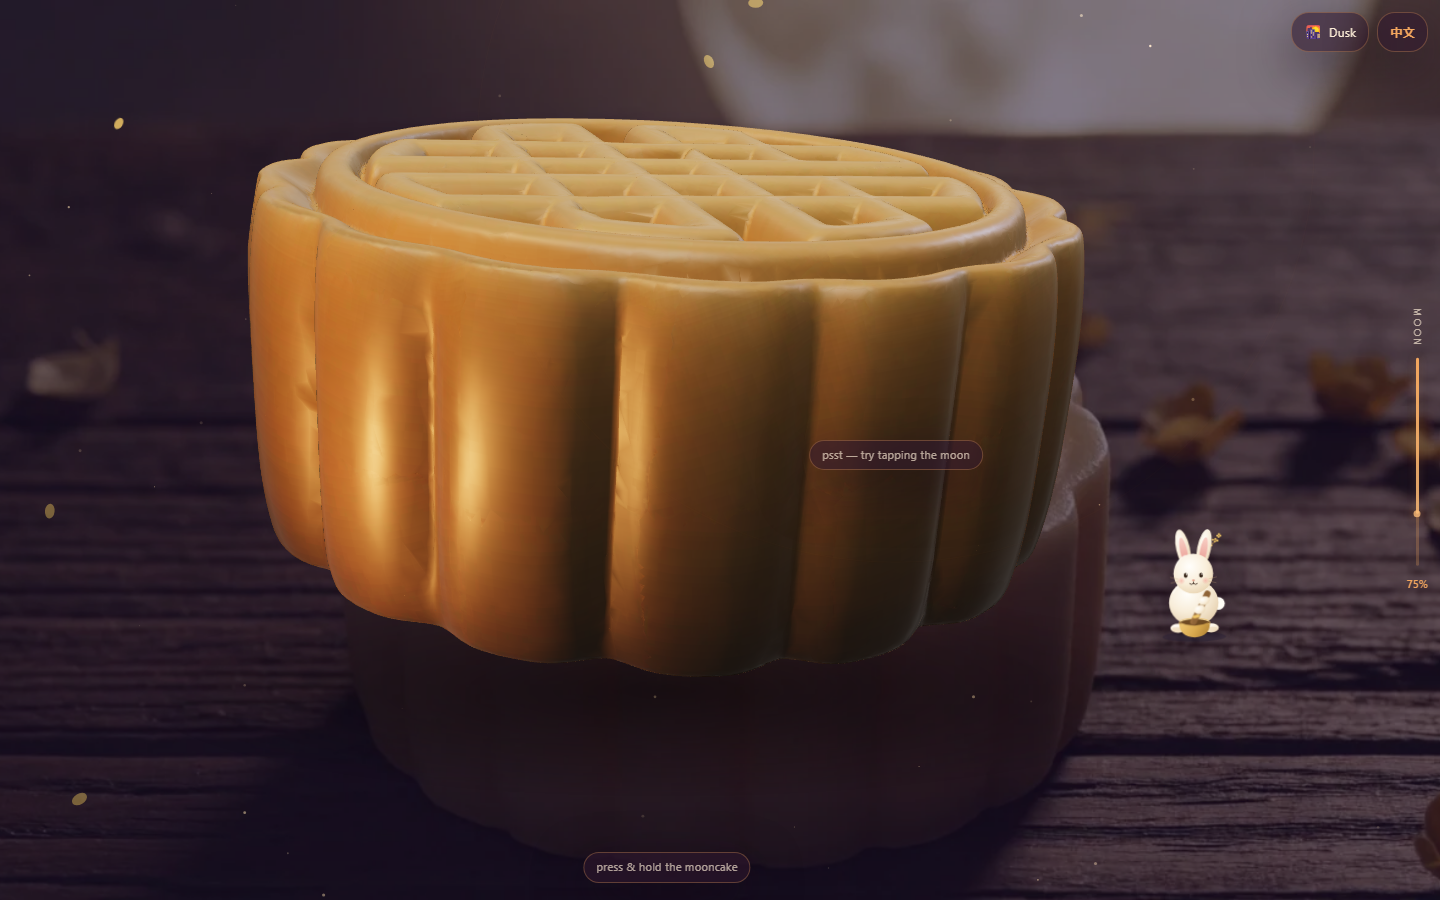
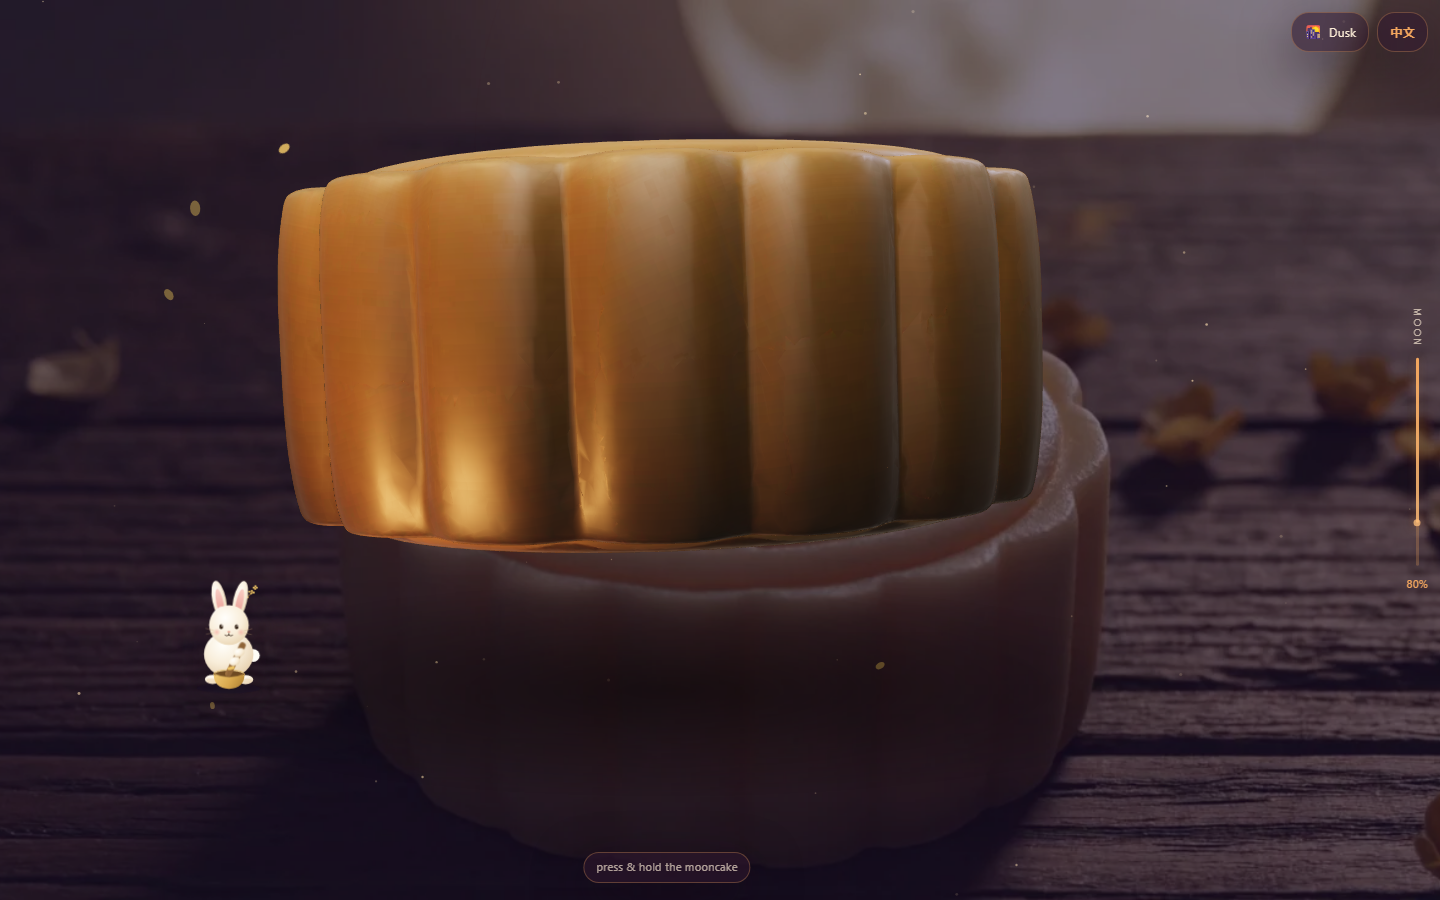
Refactor code structure for improved readability and maintainability

diff --git a/src/components/ScrollStage.jsx b/src/components/ScrollStage.jsx
@@ -13,13 +13,15 @@ import PetalLayer from './PetalLayer.jsx'
 // ---------------------------------------------------------------------------
 // 3 + 4 + 5. THE PINNED STAGE — the whole scroll journey lives here:
 //
-//   0.00–0.55  frame scrub: 121 Variant-B frames drawn 1:1 onto a <canvas>
-//              (drawImage, NOT <video>), tied to scroll via ScrollTrigger
-//   0.42–0.52  the "formation" caption fades through
-//   0.55–0.64  pop-out: 2D canvas crossfades -> Three.js mooncake positioned
-//              exactly where the flat cake sits in the last frame
-//   0.64–1.00  drift: zigzag path + wiggle + auto-rotate, easter eggs arm:
-//              rabbit hops in · moon becomes tappable · long-press overlay
+//   0.00–0.62  frame scrub: 121 Variant-B frames drawn 1:1 onto a <canvas>
+//              (drawImage, NOT <video>), tied to scroll via ScrollTrigger —
+//              stretched across most of the pin so the formation reads slow
+//   0.46–0.60  the "formation" caption fades through
+//   0.62–0.70  pop-out: 2D canvas crossfades -> Three.js mooncake positioned
+//              exactly where the flat cake sits in the last frame — the cake
+//              steps out of the image
+//   0.70–1.00  the cake swells to hero size and settles into its 3/4 pose;
+//              easter eggs arm: rabbit hops in · moon tappable · long-press
 //
 // All scroll-driven mutation happens on ONE plain object (stRef) with
 // transform/opacity writes only — no layout reads/writes per frame.
@@ -48,6 +50,7 @@ export default function ScrollStage({ assets, active }) {
   const stRef = useRef({ frame: 0, fade: 0, dx: 0, dy: 0, rotY: 0, zoom: 0 })
   const lastDrawn = useRef(-1)
   const flags = useRef({ rabbit: false, moonHint: false, pressHint: false, orbitHint: false })
+  const orbitTimer = useRef(0)
   const stageActive = useRef(false)
   const hotspotShown = useRef(false)
   const moonTapped = useRef(false)
@@ -181,7 +184,7 @@ export default function ScrollStage({ assets, active }) {
         // already overflow ~3.8x, so they get no boost).
         scale:
           (0.94 + 0.06 * st.fade) *
-          (1 + st.zoom * (viewSize.current.w > viewSize.current.h ? 0.1 : 0)),
+          (1 + st.zoom * (viewSize.current.w > viewSize.current.h ? 0.14 : 0)),
       })
       sceneRef.current.setActive(stageActive.current && st.fade > 0.01)
     }
@@ -221,6 +224,8 @@ export default function ScrollStage({ assets, active }) {
     // visitor's orbit/pan/zoom also resets so the pop-out stays pixel-exact
     if (st.fade < 0.1) {
       flags.current = { rabbit: false, moonHint: false, pressHint: false, orbitHint: false }
+      window.clearTimeout(orbitTimer.current)
+      orbitTimer.current = 0
       sceneRef.current?.resetView(true)
       for (const r of [moonHintRef, pressHintRef, orbitHintRef]) {
         if (r.current) {
@@ -607,9 +612,9 @@ export default function ScrollStage({ assets, active }) {
       captionRef.current,
       { autoAlpha: 0, y: 12 },
       { autoAlpha: 1, y: 0, duration: 0.05, ease: 'power2.out' },
-      0.42,
+      0.46,
     )
-    tl.to(captionRef.current, { autoAlpha: 0, duration: 0.04 }, 0.5)
+    tl.to(captionRef.current, { autoAlpha: 0, duration: 0.04 }, 0.56)
 
     // 3) pop-out crossfade (2D canvas -> WebGL cake)
     tl.to(st, { fade: 1, duration: TL.popEnd - TL.scrubEnd, onUpdate: apply }, TL.scrubEnd)
@@ -618,7 +623,9 @@ export default function ScrollStage({ assets, active }) {
     // into a 3/4 pose and PARKS — no more zigzag wander. The visitor takes
     // over from here: trackball rotate / move / zoom (armCakeViewer).
     tl.to(st, { zoom: 1, duration: 0.14, ease: 'sine.inOut', onUpdate: apply }, TL.popEnd)
-    tl.to(st, { pitch: 0.3, duration: 0.32, ease: 'sine.inOut', onUpdate: apply }, TL.popEnd + 0.02)
+    // (ends exactly at 1.00 so the timeline's total duration stays 1 and every
+    // TL fraction maps 1:1 onto the pinned scroll distance)
+    tl.to(st, { pitch: 0.3, duration: 0.28, ease: 'sine.inOut', onUpdate: apply }, TL.popEnd + 0.02)
 
     // 5) easter-egg arming (guarded one-shots; re-armed by applyScrollState)
     tl.call(() => {
@@ -639,12 +646,24 @@ export default function ScrollStage({ assets, active }) {
         showMoonHint()
       }
     }, null, TL.popEnd + 0.08)
+    // The orbit hint is a REAL-TIME nudge ("you can play with this"), not a
+    // scroll beat: ~6s after the cake parks. It must NOT live on the scrubbed
+    // timeline as a far-future position — a tl.call placed beyond the end
+    // stretches the timeline's total duration, and ScrollTrigger then maps the
+    // whole pin across that inflated duration (that bug once compressed the
+    // entire 121-frame formation into ~8% of the scroll = "way too fast").
     tl.call(() => {
       if (!flags.current.orbitHint) {
         flags.current.orbitHint = true
-        showOrbitHint()
+        window.clearTimeout(orbitTimer.current)
+        orbitTimer.current = window.setTimeout(() => {
+          orbitTimer.current = 0
+          if (stageActive.current && stRef.current.fade > 0.8 && flags.current.orbitHint) {
+            showOrbitHint()
+          }
+        }, 6100)
       }
-    }, null, TL.popEnd + 6.1)
+    }, null, TL.popEnd + 0.08)
 
     window.addEventListener('resize', onResize, { passive: true })
     return () => {
@@ -653,6 +672,7 @@ export default function ScrollStage({ assets, active }) {
       disposeLongPress()
       disposeViewer()
       disposeMoonTap()
+      window.clearTimeout(orbitTimer.current)
       petalRef.current?.setDrifting(false)
       if (tl) {
         tl.scrollTrigger?.kill()

diff --git a/src/components/Closing.jsx b/src/components/Closing.jsx
@@ -5,10 +5,12 @@ import { usePrefs } from '../state/prefs.jsx'
 import { useReducedMotion } from '../hooks/useReducedMotion.js'
 
 // ---------------------------------------------------------------------------
-// 6. CLOSING — the second Variant-A still (moon glowing) behind a short
-//    bilingual message signed "— Navi", the thousand-year-old Su Shi line as
-//    a soft-glowing caption, and the ambient canvas keeps drifting petals so
-//    the page never feels "finished".
+// 2. FESTIVAL PANEL — sits right after the hero, BEFORE the formation: the
+//    Variant-A cake still (the image the mooncake will later step out of)
+//    behind "Happy Mid-Autumn Festival, Ames", the thousand-year-old Su Shi
+//    line as a soft-glowing caption, and Navi's signed message. The journey
+//    then continues into the pinned stage — formation -> 3D cake — and ends
+//    there, on the cake itself.
 // ---------------------------------------------------------------------------
 export default function Closing() {
   const { t } = usePrefs()
@@ -44,7 +46,7 @@ export default function Closing() {
     <section
       ref={ref}
       className="relative z-10 flex min-h-[108svh] items-center justify-center overflow-hidden"
-      aria-label="a message for you"
+      aria-label="Happy Mid-Autumn Festival"
     >
       {/* closing backdrop (Variant-A still, moon glowing) */}
       <div className="absolute inset-0">
@@ -53,7 +55,7 @@ export default function Closing() {
           alt=""
           draggable="false"
           className="h-full w-full object-cover"
-          style={{ opacity: 0.42 }}
+          style={{ opacity: 0.58 }}
         />
         {/* blend top & bottom into the page sky so the seam is invisible */}
         <div
@@ -66,10 +68,19 @@ export default function Closing() {
       </div>
 
       <div className="relative z-10 mx-6 max-w-xl py-28 text-center">
+        {/* the greeting leads — this panel is the festival moment */}
+        <h2
+          data-close-item
+          className="font-display text-3xl leading-snug md:text-4xl"
+          style={{ color: 'var(--text)' }}
+        >
+          {t('closing.title')}
+        </h2>
+
         {/* Su Shi — the glowing caption */}
         <p
           data-close-item
-          className="font-display text-glow text-xl leading-relaxed md:text-2xl"
+          className="font-display text-glow mt-6 text-xl leading-relaxed md:text-2xl"
           style={{ color: 'var(--accent)' }}
         >
           {t('closing.shi')}
@@ -78,13 +89,6 @@ export default function Closing() {
           {t('closing.shiNote')}
         </p>
 
-        <h2
-          data-close-item
-          className="font-display mt-12 text-3xl leading-snug md:text-4xl"
-          style={{ color: 'var(--text)' }}
-        >
-          {t('closing.title')}
-        </h2>
         <p
           data-close-item
           className="mx-auto mt-6 max-w-md text-base leading-loose"

diff --git a/src/lib/config.js b/src/lib/config.js
@@ -36,17 +36,24 @@ export const CAKE_ANCHOR = { x: 0.47, y: 0.38, size: 0.42 }
 export const MOON_ANCHOR = { x: 0.6, y: 0.16, r: 0.16 }
 
 // Master scroll-timeline breakpoints (fractions of the pinned stage):
-//   0.00 – 0.55  frame-sequence scrub (Variant B formation)
-//   0.55 – 0.64  crossfade 2D canvas -> WebGL mooncake ("pop-out")
-//   0.64 – 1.00  drift + wiggle + easter eggs
+//   0.00 – 0.62  frame-sequence scrub (Variant B formation) — deliberately
+//                wide so the swirl / burst / settle reads slow and cinematic
+//   0.62 – 0.70  crossfade 2D canvas -> WebGL mooncake ("pop-out": the cake
+//                steps out of the last frame)
+//   0.70 – 1.00  swell + settle + easter eggs (the finale; nothing after it)
+// NOTE: these are fractions of the GSAP timeline, whose total duration must
+// stay 1.0 — a tl.call scheduled beyond the end stretches the duration and
+// silently rescales every beat (that's how the formation once became ~8x too
+// fast: the whole scrub was squeezed into ~8% of the pin).
 export const TL = {
-  scrubEnd: 0.55,
-  popEnd: 0.64,
+  scrubEnd: 0.62,
+  popEnd: 0.70,
 }
 
-// Scroll length of the pinned stage, in viewport heights (620% => plenty of
-// room: ~340vh for 121 frames, ~230vh of drift/easter eggs).
-export const PIN_DISTANCE_VH = 620
+// Scroll length of the pinned stage, in viewport heights (800% => ~495vh for
+// the 121 formation frames, ~65vh for the pop-out crossfade, ~240vh of
+// finale/easter eggs).
+export const PIN_DISTANCE_VH = 800
 
 // Loading weight split for the progress percentage.
 export const LOAD_WEIGHTS = { frames: 0.55, model: 0.38, misc: 0.07 }

diff --git a/src/App.jsx b/src/App.jsx
@@ -15,8 +15,9 @@ import Closing from './components/Closing.jsx'
 //   boot      -> preloadAssets (frames + model + locales + poster) with a
 //                single weighted progress number for the loader
 //   loader    -> poster bg + moon-phase progress; scroll LOCKED until done
-//   app       -> hero -> pinned scroll stage -> closing, plus ambient canvas,
-//                corner controls and the moon-phase scroll meter
+//   app       -> hero -> festival panel (cake image + message) -> pinned
+//                scroll stage (formation -> 3D cake finale), plus ambient
+//                canvas, corner controls and the moon-phase scroll meter
 // ---------------------------------------------------------------------------
 export default function App() {
   const [assets, setAssets] = useState(null)
@@ -59,8 +60,8 @@ export default function App() {
         <>
           <UIControls />
           <Hero ready={loaderGone} />
-          <ScrollStage assets={assets} active={loaderGone} />
           <Closing />
+          <ScrollStage assets={assets} active={loaderGone} />
           <ScrollMeter />
         </>
       ) : (

diff --git a/src/lib/preload.js b/src/lib/preload.js
@@ -91,10 +91,13 @@ export function preloadAssets(onProgress) {
   const result = { frames: new Array(FRAMES.count).fill(null), gltf: null, locales: null, webglOK: detectWebGL() }
 
   const work = (async () => {
-    // -- misc: locales (the loader UI itself needs the translated line)
+    // -- misc: locales (the loader UI itself needs the translated line) plus
+    // the festival-panel backdrop — it's the second screen now, so it should
+    // be warm in cache before the loader lets go
     const miscJobs = [
       fetchJSON(PATHS.locales.en),
       fetchJSON(PATHS.locales.zh),
+      loadImage(PATHS.closingBg),
     ]
     let miscDone = 0
     const locales = await Promise.all(

diff --git a/README.md b/README.md
@@ -13,14 +13,20 @@ Festival gift from **Navi** to **Ames**.
    arrive unevenly. Scroll is locked until everything is ready.
 2. **Hero** — bilingual greeting addressed to Ames, glowing moon, swaying
    paper lantern, twinkling stars, "scroll to begin".
-3. **The formation (pinned scroll scrub)** — 121 video frames drawn 1:1 onto
+3. **Festival panel** — "Happy Mid-Autumn Festival, Ames" with the Variant-A
+   cake still glowing behind it (the image the mooncake will later step out
+   of), the thousand-year-old Su Shi line 但愿人长久，千里共婵娟, and Navi's
+   signed message.
+4. **The formation (pinned scroll scrub)** — 121 video frames drawn 1:1 onto
    a `<canvas>` tied to scroll: particles swirl, petals ring, the cake
-   condenses out of light and settles. Scroll back up = it dissolves again.
-4. **Pop-out** — the 2D canvas crossfades into the real 3D mooncake
-   (Three.js), positioned exactly where the flat cake sat in the last frame.
-5. **Hands-on 3D viewer + easter eggs** — the cake swells to hero size,
-   settles into a 3/4 pose, and parks (no auto-wander). From here it's a
-   product viewer you can really play with:
+   condenses out of light and settles — stretched across a long, slow scroll
+   so nothing rushes. Scroll back up = it dissolves again.
+5. **Pop-out** — the 2D canvas crossfades into the real 3D mooncake
+   (Three.js), positioned exactly where the flat cake sat in the last frame,
+   so the cake appears to step out of the image.
+6. **Hands-on 3D viewer + easter eggs (the finale)** — the cake swells to
+   hero size, settles into a 3/4 pose, and parks (no auto-wander). From here
+   it's a product viewer you can really play with:
    - **drag** → trackball spin — any axis, flip it over and see the bottom
    - **two-finger drag** (or Shift/right-drag on desktop) → move it anywhere;
      it springs home on release
@@ -35,8 +41,8 @@ Festival gift from **Navi** to **Ames**.
      the golden yolk = the full moon itself
    - a slim journey rail on the right edge tracks progress (gold fill +
      glowing tip + live percentage)
-6. **Closing** — a message signed "— Navi", under the thousand-year-old Su Shi
-   line 但愿人长久，千里共婵娟, with petals still drifting.
+
+The journey ends here, on the cake itself — petals keep drifting.
 
 Themes **dawn / dusk / night** auto-select by the visitor's clock (5–11 / 11–19
 / 19–5) and can be cycled manually (corner button). **EN / 中文** toggle
@@ -66,7 +72,7 @@ All personal words live in **two JSON files** — edit the same keys in both:
 | File | Key | What it is |
 |---|---|---|
 | `public/locales/en.json` | `hero.personal` | the line addressed to Ames on the hero |
-| `public/locales/en.json` | `closing.message` | the closing message (a light burger-and-cola nod is baked in — keep, change, or delete it) |
+| `public/locales/en.json` | `closing.message` | the festival-panel message (shown right after the hero; a light burger-and-cola nod is baked in — keep, change, or delete it) |
 | `public/locales/zh.json` | same keys | the Chinese versions |
 
 Also worth knowing:
